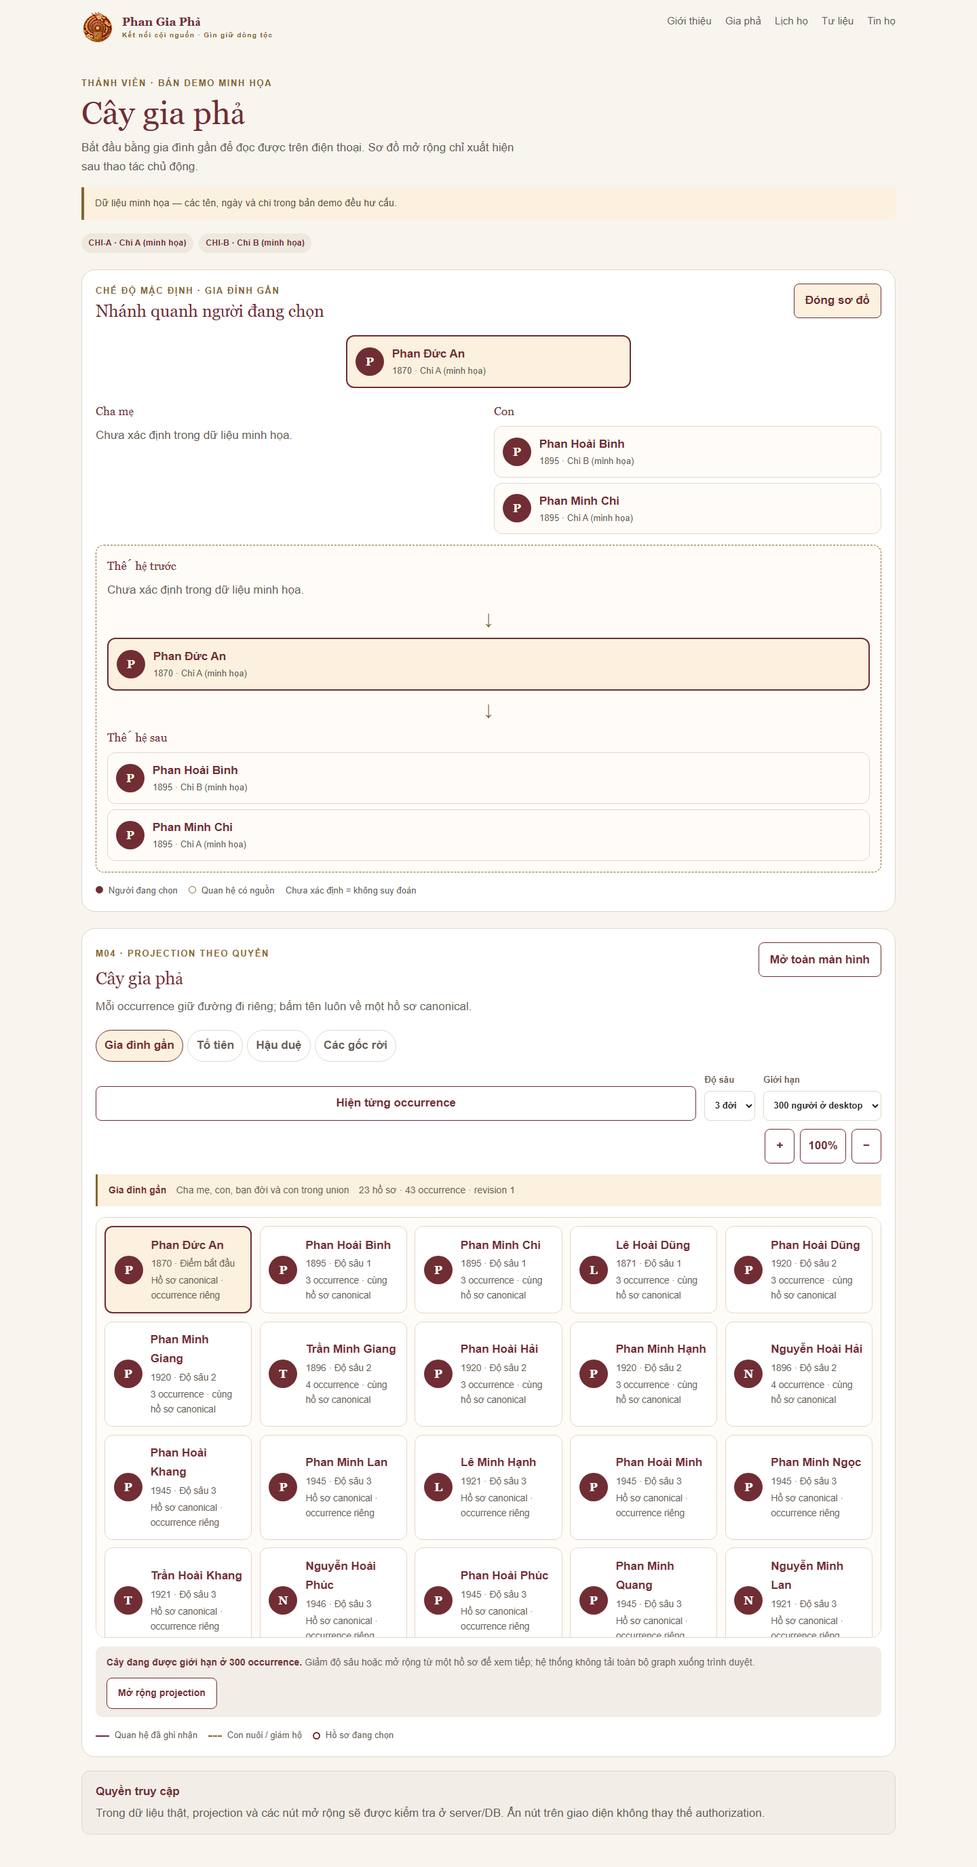
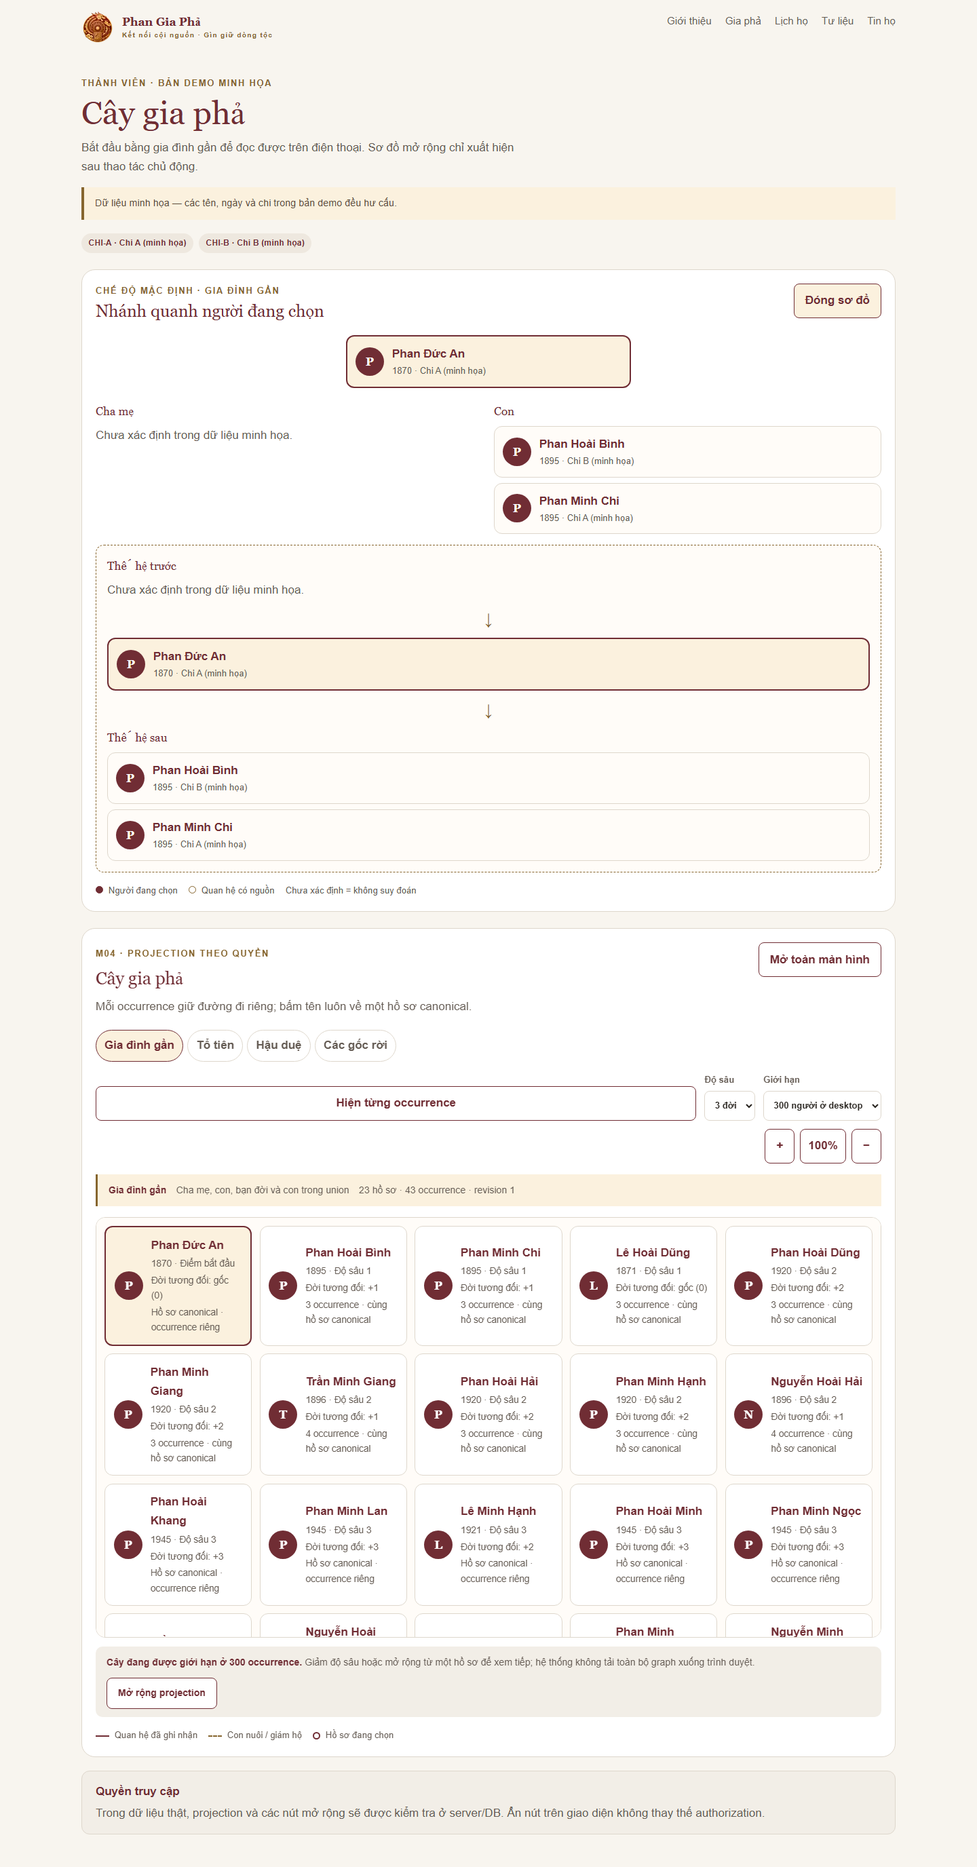
feat: add root-relative genealogy generations

diff --git a/packages/domain/src/m04.ts b/packages/domain/src/m04.ts
@@ -22,7 +22,7 @@ export type GraphInput = {
   graphRevision?: number;
 };
 
-type WorkItem = { personId: string; depth: number; path: ReadonlyArray<string> };
+type WorkItem = { personId: string; depth: number; generation: number | null; path: ReadonlyArray<string> };
 type EdgeDraft = {
   id: string;
   sourcePersonId: string;
@@ -37,33 +37,52 @@ function occurrenceId(mode: GraphMode, path: ReadonlyArray<string>): string {
   return `occurrence:${mode}:${path.join("/")}`;
 }
 
+export type RelativeGenerationRange = {
+  values: ReadonlyArray<number>;
+  min: number | null;
+  max: number | null;
+};
+
 export type GraphOccurrenceGroup = {
   canonicalPersonId: string;
   person: PersonSummary;
   occurrenceIds: ReadonlyArray<string>;
   depths: ReadonlyArray<number>;
+  generationRange: RelativeGenerationRange;
 };
 
+export function summarizeRelativeGenerations(values: ReadonlyArray<number>): RelativeGenerationRange {
+  const uniqueValues = [...new Set(values)].sort((left, right) => left - right);
+  return {
+    values: uniqueValues,
+    min: uniqueValues[0] ?? null,
+    max: uniqueValues[uniqueValues.length - 1] ?? null
+  };
+}
+
 export function collapseGraphOccurrences(graph: Graph): Array<GraphOccurrenceGroup> {
-  const groups = new Map<string, { person: PersonSummary; occurrenceIds: string[]; depths: number[] }>();
+  const groups = new Map<string, { person: PersonSummary; occurrenceIds: string[]; depths: number[]; generations: number[] }>();
   for (const node of graph.nodes) {
     const existing = groups.get(node.person.id);
     if (existing) {
       existing.occurrenceIds.push(node.occurrenceId);
       existing.depths.push(node.depth);
+      if (node.generation !== null) existing.generations.push(node.generation);
       continue;
     }
     groups.set(node.person.id, {
       person: node.person,
       occurrenceIds: [node.occurrenceId],
-      depths: [node.depth]
+      depths: [node.depth],
+      generations: node.generation === null ? [] : [node.generation]
     });
   }
   return [...groups.entries()].map(([canonicalPersonId, group]) => ({
     canonicalPersonId,
     person: group.person,
     occurrenceIds: group.occurrenceIds,
-    depths: group.depths
+    depths: group.depths,
+    generationRange: summarizeRelativeGenerations(group.generations)
   }));
 }
 function unique(values: ReadonlyArray<string>): string[] {
@@ -79,8 +98,8 @@ export function buildGraphProjection(input: GraphInput, mode: GraphMode, depth: 
   const unions = input.unions ?? [];
   const roots = input.people.filter((person) => !parentLinks.some((link) => link.childId === person.id));
   const seeds: WorkItem[] = mode === "roots"
-    ? roots.map((person) => ({ personId: person.id, depth: 0, path: [person.id] }))
-    : [{ personId: input.rootPersonId, depth: 0, path: [input.rootPersonId] }];
+    ? roots.map((person) => ({ personId: person.id, depth: 0, generation: 0, path: [person.id] }))
+    : [{ personId: input.rootPersonId, depth: 0, generation: 0, path: [input.rootPersonId] }];
 
   const queue = [...seeds];
   const visited = new Set<string>();
@@ -103,25 +122,25 @@ export function buildGraphProjection(input: GraphInput, mode: GraphMode, depth: 
     drafts.push({ work, person });
     if (work.depth >= depth || mode === "roots") continue;
 
-    const neighbors: Array<{ personId: string; kind: Graph["edges"][number]["kind"]; status?: "confirmed" | "disputed"; edgeId: string; sourcePersonId: string; targetPersonId: string }> = [];
+    const neighbors: Array<{ personId: string; kind: Graph["edges"][number]["kind"]; status?: "confirmed" | "disputed"; edgeId: string; sourcePersonId: string; targetPersonId: string; generationDelta: number | null }> = [];
     if (mode === "ancestors" || mode === "family") {
       for (const link of parentLinks.filter((candidate) => candidate.childId === work.personId)) {
-        neighbors.push({ personId: link.parentId, kind: link.kind, status: link.status, edgeId: link.id, sourcePersonId: link.parentId, targetPersonId: link.childId });
+        neighbors.push({ personId: link.parentId, kind: link.kind, status: link.status, edgeId: link.id, sourcePersonId: link.parentId, targetPersonId: link.childId, generationDelta: -1 });
       }
     }
     if (mode === "descendants" || mode === "family") {
       for (const link of parentLinks.filter((candidate) => candidate.parentId === work.personId)) {
-        neighbors.push({ personId: link.childId, kind: link.kind, status: link.status, edgeId: link.id, sourcePersonId: link.parentId, targetPersonId: link.childId });
+        neighbors.push({ personId: link.childId, kind: link.kind, status: link.status, edgeId: link.id, sourcePersonId: link.parentId, targetPersonId: link.childId, generationDelta: 1 });
       }
     }
     if (mode === "family") {
       for (const union of unions) {
         if (!union.partnerIds.includes(work.personId)) continue;
         for (const partnerId of union.partnerIds.filter((id) => id !== work.personId)) {
-          neighbors.push({ personId: partnerId, kind: "union", edgeId: union.id, sourcePersonId: work.personId, targetPersonId: partnerId });
+          neighbors.push({ personId: partnerId, kind: "union", edgeId: union.id, sourcePersonId: work.personId, targetPersonId: partnerId, generationDelta: 0 });
         }
         for (const childId of union.childIds) {
-          neighbors.push({ personId: childId, kind: "union", edgeId: union.id, sourcePersonId: work.personId, targetPersonId: childId });
+          neighbors.push({ personId: childId, kind: "union", edgeId: union.id, sourcePersonId: work.personId, targetPersonId: childId, generationDelta: null });
         }
       }
     }
@@ -131,7 +150,7 @@ export function buildGraphProjection(input: GraphInput, mode: GraphMode, depth: 
       const nextPath = [...work.path, neighbor.personId];
       const sourcePath = neighbor.sourcePersonId === work.personId ? work.path : nextPath;
       const targetPath = neighbor.targetPersonId === work.personId ? work.path : nextPath;
-      queue.push({ personId: neighbor.personId, depth: work.depth + 1, path: nextPath });
+      queue.push({ personId: neighbor.personId, depth: work.depth + 1, generation: neighbor.generationDelta === null || work.generation === null ? null : work.generation + neighbor.generationDelta, path: nextPath });
       edges.push({ id: neighbor.edgeId, sourcePersonId: neighbor.sourcePersonId, targetPersonId: neighbor.targetPersonId, sourcePath, targetPath, kind: neighbor.kind, status: neighbor.status });
     }
   }
@@ -156,7 +175,8 @@ export function buildGraphProjection(input: GraphInput, mode: GraphMode, depth: 
   const nodes = drafts.map(({ work, person }) => ({
     occurrenceId: occurrenceId(mode, work.path),
     person,
-    depth: work.depth
+    depth: work.depth,
+    generation: work.generation
   }));
   const expandablePersonIds = unique(drafts.filter(({ work }) => work.depth < depth).map(({ person }) => person.id));
   const nodeLimited = truncated;

diff --git a/contracts/domain.types.ts b/contracts/domain.types.ts
@@ -17,7 +17,7 @@ export type ParentLink = { id: string; version: number; parentId: string; childI
 export type UnionInput = { kind: "marriage" | "partnership" | "unknown"; status: "active" | "separated" | "divorced" | "widowed" | "unknown"; partnerIds: Array<string>; childIds: Array<string>; startDate?: GenealogyDate; endDate?: GenealogyDate; notes?: string; sourceIds?: Array<string> };
 export type Union = { id: string; version: number; kind: "marriage" | "partnership" | "unknown"; status: "active" | "separated" | "divorced" | "widowed" | "unknown"; partnerIds: Array<string>; childIds: Array<string>; startDate?: GenealogyDate; endDate?: GenealogyDate; notes?: string; sourceIds?: Array<string> };
 export type Family = { person: PersonSummary; parents: Array<PersonSummary>; children: Array<PersonSummary>; unions: Array<Union>; links: Array<ParentLink> };
-export type Graph = { nodes: Array<{ occurrenceId: string; person: PersonSummary; depth: number }>; edges: Array<{ id: string; sourceOccurrenceId: string; targetOccurrenceId: string; kind: "biological" | "adoptive" | "guardian" | "step" | "union"; status?: "confirmed" | "disputed" }>; roots: Array<string>; graphRevision: number; truncated: boolean; reason: "node_limit" | "depth_limit" | "time_budget" | null; nextExpansion: { direction: "ancestors" | "descendants" | "family" | "roots"; depth: number; maxNodes: number; anchorOccurrenceId: string | null } | null; expandablePersonIds: Array<string> };
+export type Graph = { nodes: Array<{ occurrenceId: string; person: PersonSummary; depth: number; generation: number | null }>; edges: Array<{ id: string; sourceOccurrenceId: string; targetOccurrenceId: string; kind: "biological" | "adoptive" | "guardian" | "step" | "union"; status?: "confirmed" | "disputed" }>; roots: Array<string>; graphRevision: number; truncated: boolean; reason: "node_limit" | "depth_limit" | "time_budget" | null; nextExpansion: { direction: "ancestors" | "descendants" | "family" | "roots"; depth: number; maxNodes: number; anchorOccurrenceId: string | null } | null; expandablePersonIds: Array<string> };
 export type Kinship = { status: "found" | "not_found_within_visible_graph" | "limit_reached"; paths: Array<Array<{ person: PersonSummary; via: "start" | "parent" | "child" | "partner" | "adoptive_parent" | "adoptive_child" }>>; label: string | null; labelConfidence: "reviewed_rule" | "descriptive_only" | "unknown"; visitedCount: number; truncated: boolean };
 export type BranchInput = { code: string; name: string; parentBranchId?: string | null; founderPersonId?: string | null; description?: string; visibility: "restricted" | "members" | "public" };
 export type Branch = { id: string; version: number; code: string; name: string; parentBranchId?: string | null; founderPersonId?: string | null; description?: string; visibility: "restricted" | "members" | "public" };

diff --git a/apps/web/src/modules/m04/tree-explorer.tsx b/apps/web/src/modules/m04/tree-explorer.tsx
@@ -1,11 +1,19 @@
 "use client";
 
 import Link from "next/link";
+import type { Graph } from "@phan/contracts";
 import { useEffect, useMemo, useRef, useState } from "react";
 import { getDemoGraph } from "../../lib/demo-data";
 import { collapseGraphOccurrences, type GraphMode } from "@phan/domain";
 
 type TreeExplorerProps = { rootId: string };
+type VisibleTreeNode = Graph["nodes"][number] & { occurrenceCount: number; relativeGenerations: ReadonlyArray<number> };
+
+function relativeGenerationLabel(values: ReadonlyArray<number>): string {
+  if (values.length === 0) return "Đời tương đối: chưa đủ dữ liệu";
+  const labels = values.map((value) => value === 0 ? "gốc (0)" : value > 0 ? `+${value}` : String(value));
+  return `Đời tương đối: ${labels.join(", ")}`;
+}
 
 const modes: Array<{ value: GraphMode; label: string; hint: string }> = [
   { value: "family", label: "Gia đình gần", hint: "Cha mẹ, con, bạn đời và con trong union" },
@@ -59,12 +67,12 @@ export function TreeExplorer({ rootId }: TreeExplorerProps) {
   }, [rootId, mode, depth, maxNodes]);
 
   const occurrenceGroups = useMemo(() => graph ? collapseGraphOccurrences(graph) : [], [graph]);
-  const visibleNodes = useMemo(() => {
+  const visibleNodes = useMemo<VisibleTreeNode[]>(() => {
     if (!graph) return [];
-    if (showOccurrences) return graph.nodes.map((node) => ({ ...node, occurrenceCount: 1 }));
+    if (showOccurrences) return graph.nodes.map((node) => ({ ...node, occurrenceCount: 1, relativeGenerations: node.generation === null ? [] : [node.generation] }));
     return occurrenceGroups.flatMap((group) => {
       const representative = graph.nodes.find((node) => node.occurrenceId === group.occurrenceIds[0]);
-      return representative ? [{ ...representative, occurrenceCount: group.occurrenceIds.length }] : [];
+      return representative ? [{ ...representative, occurrenceCount: group.occurrenceIds.length, relativeGenerations: group.generationRange.values }] : [];
     });
   }, [graph, occurrenceGroups, showOccurrences]);
   const currentNode = graph?.nodes.find((node) => node.person.id === rootId && node.depth === 0);
@@ -157,6 +165,7 @@ export function TreeExplorer({ rootId }: TreeExplorerProps) {
                   <span className="tree-person-copy">
                     <strong>{node.person.displayName}</strong>
                     <small>{node.person.yearLabel ?? "Chưa rõ"} · {node.depth === 0 ? "Điểm bắt đầu" : `Độ sâu ${node.depth}`}</small>
+                    <small>{relativeGenerationLabel(node.relativeGenerations)}</small>
                     <small>{node.occurrenceCount > 1 ? `${node.occurrenceCount} occurrence · cùng hồ sơ canonical` : "Hồ sơ canonical · occurrence riêng"}</small>
                   </span>
                 </Link>

diff --git a/packages/domain/src/m04.test.ts b/packages/domain/src/m04.test.ts
@@ -56,4 +56,23 @@ describe("M04 graph projection", () => {
     expect(new Set(sharedOccurrences.map((node) => node.occurrenceId)).size).toBe(2);
     expect(collapseGraphOccurrences(collapsedGraph).find((group) => group.canonicalPersonId === collapsePeople[4]!.id)?.occurrenceIds).toHaveLength(2);
   });
+  it("keeps relative generation root-dependent across pedigree collapse", () => {
+    const shared = { id: "00000000-0000-4000-8000-000000000005", version: 1, code: "SHARED", displayName: "Shared Person", lifeStatus: "deceased" as const, primaryBranchId: null, isDemo: true };
+    const bridge = { id: "00000000-0000-4000-8000-000000000006", version: 1, code: "BRIDGE", displayName: "Bridge Person", lifeStatus: "deceased" as const, primaryBranchId: null, isDemo: true };
+    const generationGraph = buildGraphProjection({
+      rootPersonId: people[0]!.id,
+      people: [...people, shared, bridge],
+      parentLinks: [
+        { id: "left", parentId: people[0]!.id, childId: people[1]!.id, kind: "biological", status: "confirmed" },
+        { id: "right", parentId: people[0]!.id, childId: people[2]!.id, kind: "biological", status: "confirmed" },
+        { id: "short", parentId: people[1]!.id, childId: shared.id, kind: "biological", status: "confirmed" },
+        { id: "long", parentId: people[2]!.id, childId: bridge.id, kind: "biological", status: "confirmed" },
+        { id: "shared", parentId: bridge.id, childId: shared.id, kind: "biological", status: "confirmed" }
+      ]
+    }, "descendants", 4, 120);
+    const sharedNodes = generationGraph.nodes.filter((node) => node.person.id === shared.id);
+    expect(sharedNodes.map((node) => node.generation).sort()).toEqual([2, 3]);
+    expect(collapseGraphOccurrences(generationGraph).find((group) => group.canonicalPersonId === shared.id)?.generationRange).toEqual({ values: [2, 3], min: 2, max: 3 });
+    expect(generationGraph.nodes.find((node) => node.person.id === people[0]!.id)?.generation).toBe(0);
+  });
 });

diff --git a/packages/contracts/src/m04.test.ts b/packages/contracts/src/m04.test.ts
@@ -2,6 +2,14 @@ import { describe, expect, it } from "vitest";
 import { graphProjectionSchema } from "./index";
 
 describe("M04 graph contracts", () => {
+  it("requires root-relative generation on each occurrence", () => {
+    const projection = graphProjectionSchema.parse({
+      nodes: [{ occurrenceId: "occurrence:ancestors:root", person: { id: "00000000-0000-4000-8000-000000000001", version: 1, code: "ROOT", displayName: "Root", lifeStatus: "deceased", isDemo: true }, depth: 0, generation: 0 }],
+      edges: [], roots: ["occurrence:ancestors:root"], graphRevision: 1, truncated: false, reason: null, nextExpansion: null, expandablePersonIds: []
+    });
+    expect(projection.nodes[0]?.generation).toBe(0);
+  });
+
   it("accepts bounded next expansion guidance", () => {
     const projection = graphProjectionSchema.parse({
       nodes: [],

diff --git a/packages/contracts/src/index.test.ts b/packages/contracts/src/index.test.ts
@@ -139,7 +139,7 @@ describe("CORE-01 contracts", () => {
   it("keeps graph modes bounded and preserves disputed relationship labels", () => {
     expect(graphQuerySchema.parse({ direction: "roots", depth: "2", maxNodes: "120" })).toEqual({ direction: "roots", depth: 2, maxNodes: 120 });
     const parsed = graphProjectionSchema.parse({
-      nodes: [{ occurrenceId: "root/demo", depth: 0, person: {
+      nodes: [{ occurrenceId: "root/demo", depth: 0, generation: 0, person: {
         id: "30000000-0000-4000-8000-000000000001", version: 1, code: "ROOT", displayName: "Synthetic Root", lifeStatus: "deceased", primaryBranchId: null, isDemo: true
       }}],
       edges: [{ id: "edge-1", sourceOccurrenceId: "root/demo", targetOccurrenceId: "child/demo", kind: "adoptive", status: "disputed" }],

diff --git a/tests/e2e/p1-demo.spec.ts b/tests/e2e/p1-demo.spec.ts
@@ -77,6 +77,7 @@ test("tree explorer exposes bounded graph modes and fullscreen focus", async ({ 
   await expect(page.locator("#tree-explorer-title")).toBeVisible();
   await expect(page.locator(".tree-viewport")).toBeVisible();
   await expect(page.locator(".tree-family-list")).toBeVisible();
+  await expect(page.getByText(/Đời tương đối:/).first()).toBeVisible();
   const zoomIn = page.locator(".tree-view-controls button").first();
   const zoomReset = page.locator(".tree-view-controls button").nth(1);
   await zoomIn.click();

diff --git a/packages/contracts/src/index.ts b/packages/contracts/src/index.ts
@@ -244,7 +244,8 @@ export const graphProjectionSchema = z.object({
   nodes: z.array(z.object({
     occurrenceId: z.string().min(1),
     person: personSummarySchema,
-    depth: z.number().int().nonnegative()
+    depth: z.number().int().nonnegative(),
+    generation: z.number().int().nullable()
   })),
   edges: z.array(graphEdgeSchema),
   roots: z.array(z.string().min(1)),

diff --git a/state/TEST_REPORT.md b/state/TEST_REPORT.md
@@ -62,3 +62,5 @@ Mỗi test record: testId, requirementId, env, commit, command, startedAt, exitC
 2026-09-27 M04-04 evidence: pnpm test exit 0 (contracts 8/8, domain 13/13, worker 5/5), web typecheck, pnpm build and lint exit 0 with one existing PostCSS warning. Playwright project runs exit 0: desktop Chromium 8/8 and mobile Chromium plus mobile 320 16/16, including family-list visibility, zoom in/reset, cap controls, collapse, fullscreen and Escape exit. Axe/manual/real-device/remote CI remain NOT_RUN; no real data/cloud/production used.
 
 2026-09-27 M04-05 evidence: `pnpm test:m04:cycle` exit 0 twice consecutively against local Supabase, exercising two concurrent inverse parent-link reviews in separate PostgreSQL transactions; exactly one `CYCLE_RACE=*_winner`, one `CYCLE_RACE=*_cycle_reject`, one approved parent edge, one approved proposal and one submitted proposal remained, then synthetic cleanup completed. Regression `pnpm test:concurrency`, `pnpm test:db`, local-configured standalone `pnpm test:auth` on port 3104, full `pnpm test` (contracts 8/8, domain 13/13, worker 5/5), `pnpm typecheck`, `pnpm lint` and `pnpm build` exit 0. Lint retains one existing PostCSS warning. Existing port 3100 was stale and returned 404 for claims; auth was rerun on fresh local-configured build port 3103 and standalone artifact port 3104; both PASS. No real data/cloud/production used; axe/manual/real-device/remote CI NOT_RUN.
+
+2026-09-27 M04-06 evidence: migration `0016_m04_relative_generation.sql` applied on local Supabase reset; `pnpm test:m04:graph` exit 0 verified ancestor generation `-1` and union partner generation `0`. Full `pnpm test` exit 0 with contracts 9/9, domain 14/14 and worker 5/5; `pnpm typecheck`, `pnpm lint` and `pnpm build` exit 0, with one existing PostCSS lint warning. Playwright responsive run exit 0 with 24/24 desktop Chromium, Pixel 5 and 320px tests including generation label; DB/auth/concurrency regression exit 0, with authenticated BFF run against standalone local-configured artifact on port 3106. No real data/cloud/production used; axe/manual/real-device/remote CI NOT_RUN.

diff --git a/state/TASKS.md b/state/TASKS.md
@@ -33,7 +33,7 @@ Canonical: `TASKS.json`. P0 đang có scaffold ứng dụng và foundation code;
 | M04-03 | P4 | Giới hạn và expand | M04-02 | IN_PROGRESS - mobile cap 120 and desktop cap 300 enforced per request; truncated graph carries bounded nextExpansion and UI action; local DB/contract/domain/build/E2E PASS; axe/manual/real-device/remote CI NOT_RUN |
 | M04-04 | P4 | Mobile/keyboard | M04-03 | IN_PROGRESS - family-list mobile equivalent, zoom in/out/reset, Escape exit, focus return and fullscreen body-scroll lock implemented; full tests/build/lint and responsive E2E PASS; axe/manual/real-device/remote CI NOT_RUN |
 | M04-05 | P4 | Cycle concurrency | M04-04 | IN_PROGRESS - concurrent inverse parent mutations are serialized by transaction advisory lock; one winner and one ANCESTRY_CYCLE rejection persist exactly one edge; local DB/API regression PASS; no new UI mutation surface, existing M04 states retained; axe/manual/real-device/remote CI NOT_RUN |
-| M04-06 | P4 | Đời tương đối | M04-05 |  |
+| M04-06 | P4 | Đời tương đối | M04-05 | IN_PROGRESS - generation is root/path-relative per occurrence (ancestor negative, root 0, descendant positive, union-only lineage unknown); canonical collapse preserves generation set/range; DB/domain/contract/build and responsive E2E PASS; axe/manual/real-device/remote CI NOT_RUN |
 | M05-01 | P4 | Path có quyền | M04-06 |  |
 | M05-02 | P4 | Semantics quan hệ | M05-01 |  |
 | M05-03 | P4 | Giới hạn rõ | M05-02 |  |

diff --git a/state/BLOCKERS.md b/state/BLOCKERS.md
@@ -37,3 +37,4 @@ Agent ghi blocker thực theo mẫu: bằng chứng, nguyên nhân giả thuyế
 | M04-03 | Axe/manual audit, real-device validation and remote CI are NOT_RUN; M04-04+ remain pending | M04-03 final UI/accessibility acceptance | Mobile/desktop caps, nextExpansion contract, SQL assertion, build and Playwright 24/24 PASS locally; continue M04-04 without owner action |
 | M04-04 | Axe/manual audit, real-device validation and remote CI are NOT_RUN; M04-05+ remain pending | M04-04 final UI/accessibility acceptance | Family-list, zoom controls, Escape/focus/scroll lock, responsive E2E and local quality checks PASS; continue M04-05 without owner action |
 | M04-05 | Axe/manual audit, real-device validation and remote CI remain NOT_RUN; no new UI mutation surface was added | M04-05 final acceptance | Two concurrent inverse parent mutations serialize on local Supabase with one cycle rejection and one canonical edge; DB/API/regression/build checks PASS; continue M04-06 without owner action |
+| M04-06 | Axe/manual audit, real-device validation and remote CI remain NOT_RUN | M04-06 final UI/accessibility acceptance | Root-relative generation set/range, DB/domain/contract validation, standalone BFF regression and responsive E2E 24/24 PASS locally; continue M05-01 without owner action |
